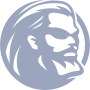
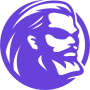
change testnet style

diff --git a/src/assets/style/new_test_net.less b/src/assets/style/new_test_net.less
@@ -45,7 +45,7 @@
     .testnet_content{
       flex: 1;
       box-sizing: border-box;
-      padding: 0 5%;
+      padding: 0 3%;
       margin-bottom: 0.3rem;
       display:flex;
       flex-direction: column;
@@ -63,8 +63,8 @@
       .testnet_content{
         margin-top: 0.25rem;
         color: rgba(255,255,255,0.5);
-        font-size: 0.22rem;
-        line-height: 0.26rem;
+        font-size: 0.2rem;
+        line-height: 0.32rem;
       }
       .testnet_link{
         display: inline-block;
@@ -78,7 +78,7 @@
       }
     }
     .testnet_content:last-child{
-      padding-right: 0;
+      padding-right: 3%;
     }
   }
 }
@@ -98,16 +98,16 @@
       justify-content: center;
       a{
         flex: 1;
-        max-width: 3rem;
+        max-width: 4rem;
         display: inline-block;
         .fqa_block{
           flex: 1;
           display: flex;
           background: #fff;
+          box-shadow:0 0.04rem 0.2rem 0 rgba(0,0,0,0.08);
           justify-content: space-between;
           align-items: center;
           padding: 0.3rem 0.22rem;
-          margin-right: 0.15rem;
           .faq_title{
             font-size: 0.14rem;
             color: #323C5A;
@@ -122,11 +122,9 @@
             }
           }
         }
-        a:last-child{
-          .fqa_block{
-            margin-right: 0;
-          }
-        }
+      }
+      a:nth-of-type(2){
+        margin-left: 0.5rem;
       }
     }
   }
@@ -196,7 +194,8 @@
 @media screen and (min-width: 375px) and (max-width: 619px){
   .testnet_container{
     .testnet_wrap{
-      padding: 0.6rem 0.2rem 0.6rem 0.2rem;;
+      padding: 0.6rem 0.2rem 0.6rem 0.2rem;
+      flex-direction: column;
     }
   }
   .testnet_link_container{
@@ -213,6 +212,9 @@
             min-width: auto;
             padding: 0.2rem;
           }
+        }
+        a:last-child{
+          margin-left: 0;
         }
         .fqa_block:last-child{
           margin-top: 0.15rem;
@@ -280,6 +282,9 @@
             min-width: auto;
             padding: 0.2rem;
           }
+        }
+        a:last-child{
+          margin-left: 0;
         }
         .fqa_block:last-child{
           margin-top: 0.15rem;

diff --git a/src/assets/style/new_mainnet.less b/src/assets/style/new_mainnet.less
@@ -270,7 +270,7 @@
     .testnet_content{
       flex: 1;
       box-sizing: border-box;
-      padding: 0 5%;
+      padding: 0 3%;
       margin-bottom: 0.3rem;
       display:flex;
       flex-direction: column;
@@ -288,8 +288,8 @@
       .testnet_content{
         margin-top: 0.25rem;
         color: rgba(255,255,255,0.5);
-        font-size: 0.22rem;
-        line-height: 0.26rem;
+        font-size: 0.2rem;
+        line-height: 0.32rem;
       }
       .testnet_link{
         display: inline-block;
@@ -303,7 +303,7 @@
       }
     }
     .testnet_content:last-child{
-      padding-right: 0;
+      padding-right: 3%;
     }
   }
 }
